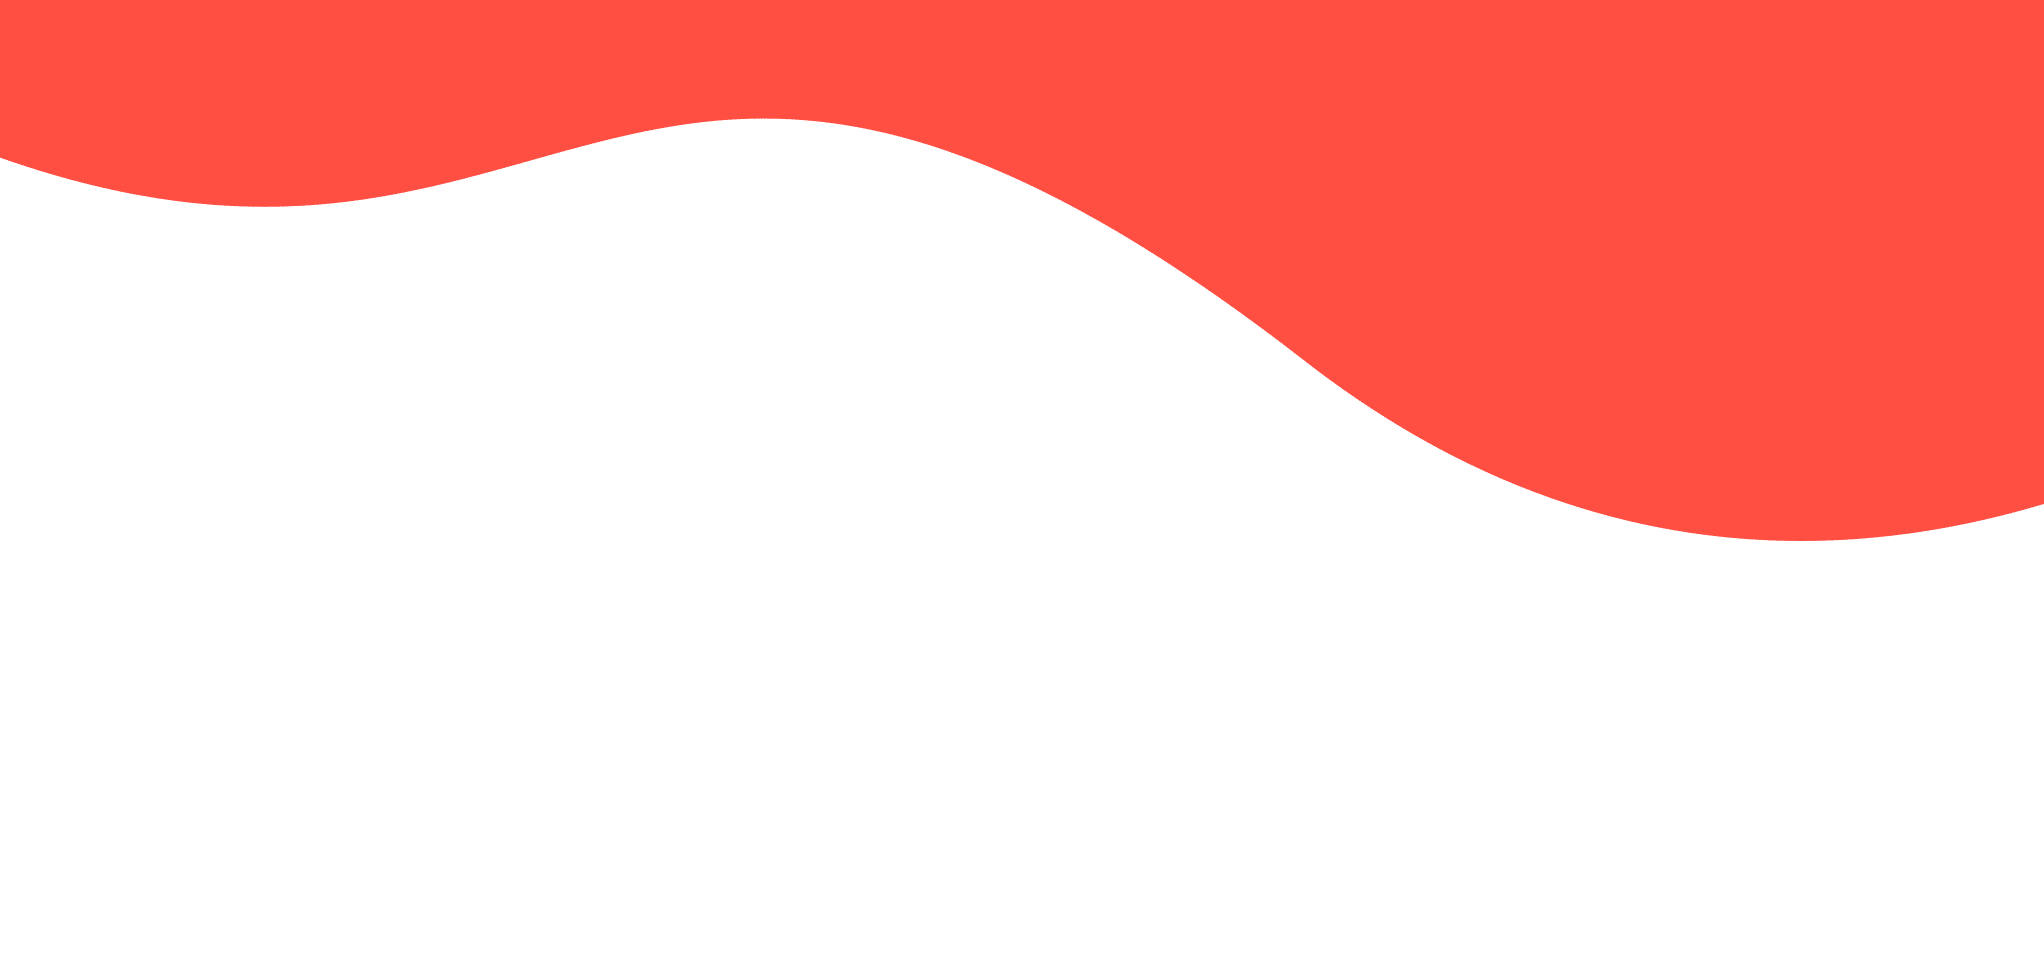
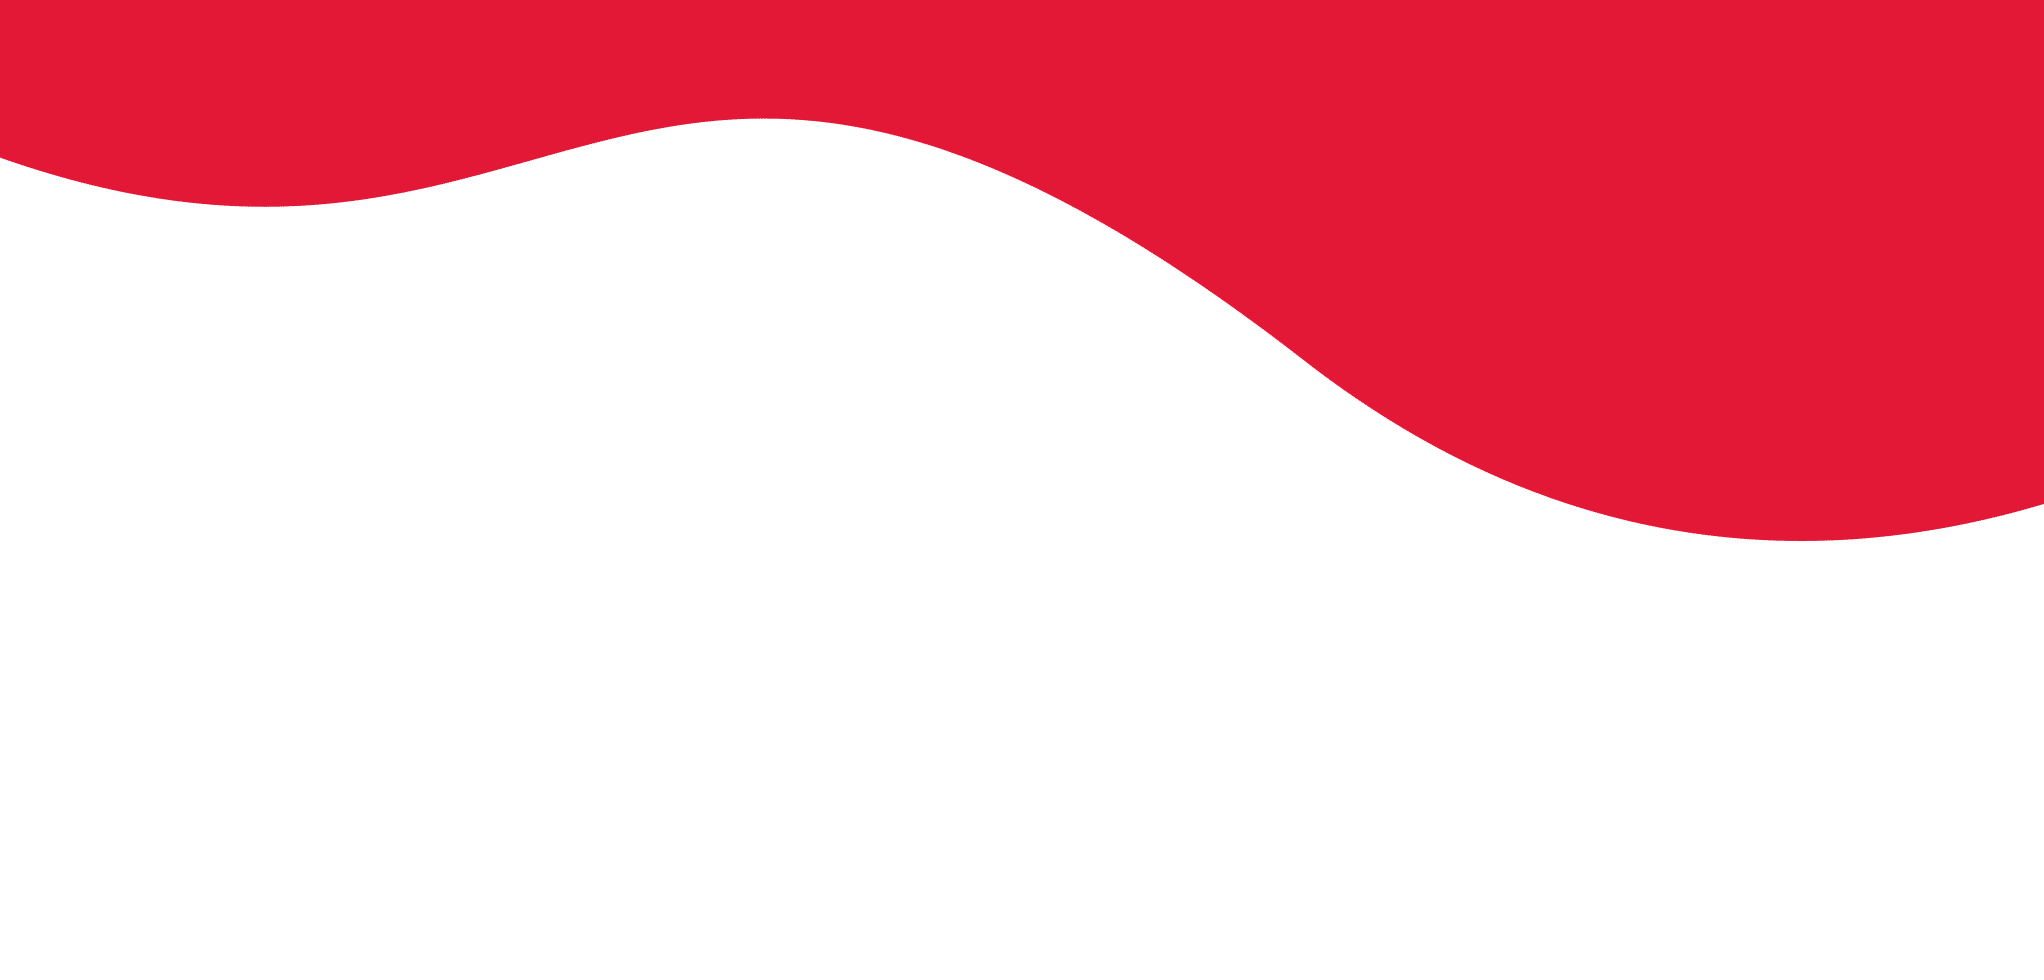
Styled the contact page as well.

diff --git a/EECS Course Prerequisites/contact.html b/EECS Course Prerequisites/contact.html
@@ -7,6 +7,7 @@
     <meta name="viewport" content="width=device-width, initial-scale=1.0">
     <title>EECS Prerequisite Checker</title>
     <link rel="stylesheet" href="./style.css">
+    <link rel="stylesheet" href="./contact.css">
     <link rel="preconnect" href="https://fonts.gstatic.com">
     <link href="https://fonts.googleapis.com/css2?family=Cairo:wght@300&display=swap" rel="stylesheet">
 </head>
@@ -23,7 +24,7 @@
 
         <div class="york-logo">
             <a href="./index.html">
-                <img src="./images/YorkuLogoLion.png" alt="York University Logo" width="150" height="124">
+                <img src="./images/YorkuLogoLion.png" alt="York University Logo" width="120" height="99">
             </a>
 
         </div>
@@ -32,6 +33,20 @@
 
         <div class="header" id="header">
             <h1>Contact Me!</h1>
+        </div>
+
+
+        <div class="input-fields" id="input">
+            <div class="sender">
+                <input class="sender-email" type="text" placeholder="Please Enter Your Email...">
+            </div>
+            <div class="body" >
+                <textarea class="sender-body" name="body" id="body" cols="30" rows="10" placeholder="Enter Your Comments..."></textarea>
+            </div>
+            <div class="send-button">
+                <button class="send" id="send">Send Email!</button>
+            </div>
+
         </div>
 
 

diff --git a/EECS Course Prerequisites/contact.css b/EECS Course Prerequisites/contact.css
@@ -1,0 +1,46 @@
+
+.input-fields {
+    position: absolute;
+    left: 50%;
+    top: 50%;
+    transform: translate(-50%, -80%);
+    
+    /* border: 3px solid green;   */
+}
+
+
+.sender-email {
+    border-radius: 10px;
+    outline: none;
+    border: 2px solid black;
+}
+
+.sender-body{
+    /* height:25px;
+    width:250px; */
+    border-radius: 10px;
+    outline: none;
+    border: 2px solid black;
+}
+
+.send:hover {
+    background-color: #e31836; 
+    color: white;
+    transition-duration: 0.6s;
+    
+}
+
+.send {
+    
+    border-radius: 10px;
+    border: 2px solid black;
+    height:32px;
+    width:150px;
+
+    font-weight: bold;
+
+    outline: none;
+    
+}
+
+

diff --git a/EECS Course Prerequisites/style.css b/EECS Course Prerequisites/style.css
@@ -15,6 +15,7 @@
     left: 0%;
     width: 100%;
     height:100%;
+   
 }
 
 
@@ -45,17 +46,15 @@ body {
     left: 90%;
 }
 
-.york-logo{
-    top: 0;
-    left: 0;
-    /* border: 3px solid blue; */
-}
-
 
 .topnav a {
     color: black;
     text-decoration: none;
     font-family: 'Cairo', sans-serif;
+}
+
+.topnav :active {
+    color: white;
 }
 
 
@@ -65,5 +64,13 @@ body {
 
 .topnav a:hover {
     color: white;
-    text-decoration: underline;
+    
 }
+
+.york-logo{
+    top: 0;
+    left: 0;
+    /* border: 3px solid blue; */
+}
+
+

diff --git a/EECS Course Prerequisites/index.html b/EECS Course Prerequisites/index.html
@@ -31,7 +31,7 @@
         <div class="york-logo">
             
             <a href="./index.html">
-                <img src="./images/YorkuLogoLion.png" alt="York University Logo" width="150" height="124">
+                <img src="./images/YorkuLogoLion.png" alt="York University Logo" width="120" height="99">
             </a>
         </div>
 

diff --git a/EECS Course Prerequisites/about.html b/EECS Course Prerequisites/about.html
@@ -24,7 +24,7 @@
 
         <div class="york-logo">
             <a href="./index.html">
-                <img src="./images/YorkuLogoLion.png" alt="York University Logo" width="150" height="124">
+                <img src="./images/YorkuLogoLion.png" alt="York University Logo" width="120" height="99">
             </a>
         </div>
 

diff --git a/EECS Course Prerequisites/index.css b/EECS Course Prerequisites/index.css
@@ -34,13 +34,14 @@ input[type="number"] {
 }
 
 .search-course:hover {
-    background-color: #ff4e42; /* Green */
+    background-color: #e31836; 
     color: white;
+    transition-duration: 0.6s;
     
 }
 
 .search-course {
-    transition-duration: 0.4s;
+    
     border-radius: 10px;
     border: 2px solid black;
     height:32px;
